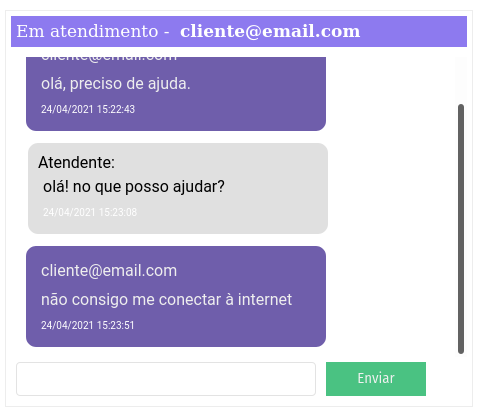
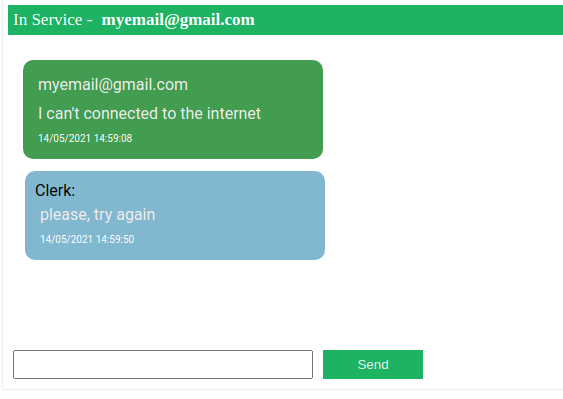
Update README

diff --git a/README.md b/README.md
@@ -1,2 +1,39 @@
-# simple-chat
- NodeJS, TypeORM, Socket.IO
+<h1 align="center"> 
+  <img src="./.github/client.png" alt="Chat client screen" width="300" />
+  <img src="./.github/admin.png" alt="Chat admin screen" width="200" />
+</h1>
+
+## About
+- A web application using socket.io that users will be able to chat with administrators.
+- Clients are responsible for sending messages using their emails
+- Admins can choose the clients to be served by their email 
+
+## What is inside?
+
+This project uses this stuff:
+
+- [TypeScript](https://www.typescriptlang.org/)
+- [TypeORM](https://typeorm.io/)
+- [Socket.IO](https://socket.io/)
+
+## Getting Started
+
+First, run the development server:
+
+```bash
+npm run dev
+
+# or
+
+yarn dev
+```
+
+Open Client [http://localhost:3333/pages/client](http://localhost:3333/pages/client) with your browser to see the result.
+
+Open Admin [http://localhost:3333/pages/admin](http://localhost:3333/pages/admin) with your browser to see the result.
+
+## Learn More
+
+To learn more about Next.js, take a look at the following resources:
+
+- [Socket.IO with Node.js](https://socket.io/docs/v4/server-api/) - learn how to use socket.io in server side.
